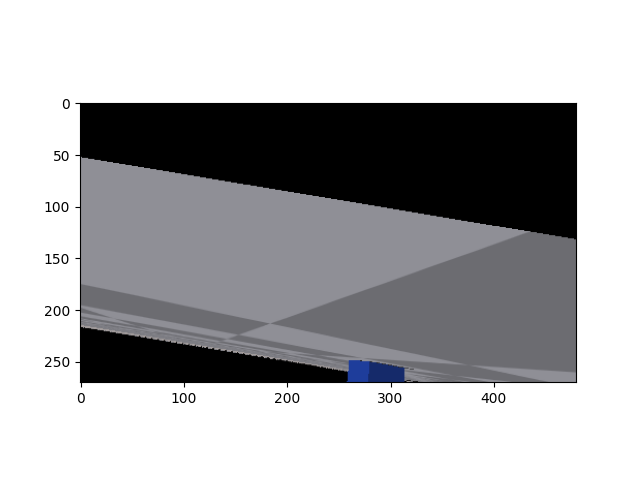
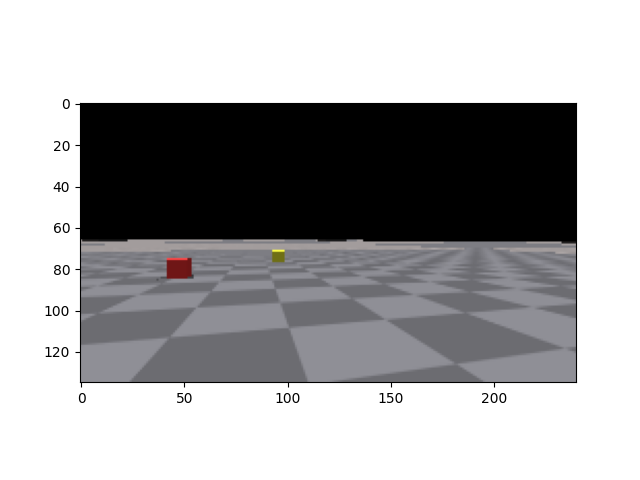
properly orientated bottom camera angle, looks perfectly down now

Changed region(s): [[0.0625, 0.2812, 0.9062, 0.8438]]

diff --git a/aerial_gym/config/sensor_config/camera_config/quad_dual_rgb_camera_config.py b/aerial_gym/config/sensor_config/camera_config/quad_dual_rgb_camera_config.py
@@ -17,8 +17,8 @@ class QuadDualRGBCameraConfig(BaseRGBCameraConfig):
     ]
 
     nominal_orientations_euler_deg = [
-        [0.0, 0.0, 0.0],     # Forward camera orientation
-        [180.0, 0.0, 90.0],  # Downward camera orientation (matches URDF rotation)
+        [0.0, 0.0, 0.0],     # Forward camera: looking straight ahead
+        [0.0, 90.0, 0.0],    # Downward camera: 90° pitch down (perfectly downward)
     ]
 
     # Disable randomization for multiple cameras (for now)
